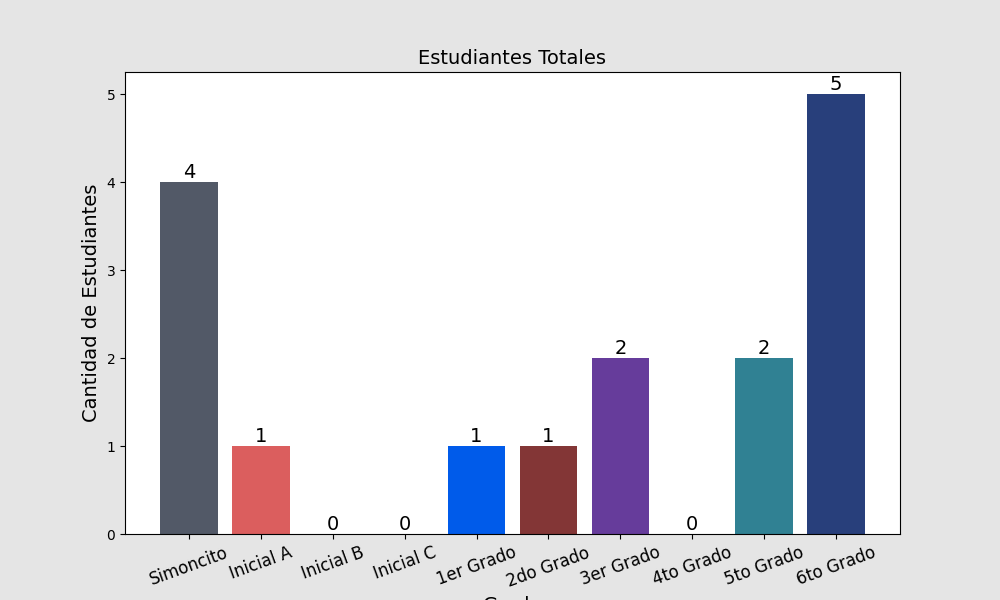
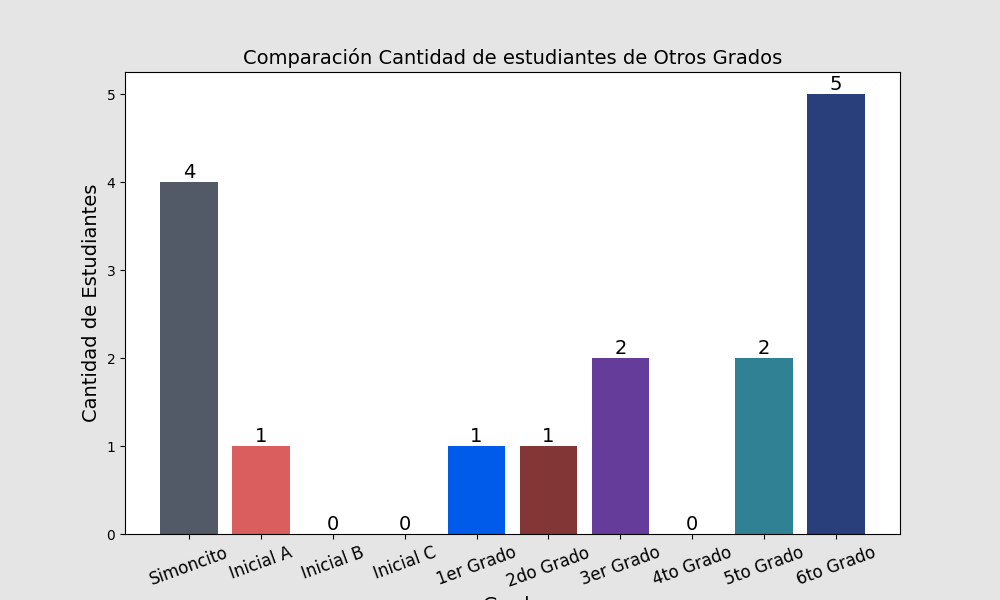
cambios

Changed region(s): [[0.248, 0.06, 0.775, 0.12]]

diff --git a/modulos/secciones_modulares_docente/inicio_docente/crear_estadistica_general_docente.py b/modulos/secciones_modulares_docente/inicio_docente/crear_estadistica_general_docente.py
@@ -8,18 +8,21 @@ def crear_estadistica_general(lista_datos):
     colores = [var.btn_gray, var.btn_pink, var.btn_beige, var.btn_gold, var.btn_blue, var.btn_red_black, var.btn_purple, var.btn_green, var.btn_lila, var.btn_blueosc]
 
     # Crear una figura y un eje
-    fig, ax = plt.subplots()
+    # fig, ax = plt.subplots()
+    fig, ax = plt.subplots(figsize=(10, 6))  # Ancho: 10 pulgadas, Alto: 6 pulgadas
     ax.bar(nombres_datos, lista_datos, color=colores)
-    ax.set_xlabel('Grado')
-    ax.set_ylabel('Cantidad de Estudiantes')
-    ax.set_title('Número de Estudiantes por Grado')
+    ax.set_xlabel('Grado',fontsize=14)
+    ax.set_ylabel('Cantidad de Estudiantes',fontsize=14)
+    ax.set_title('Comparación Cantidad de estudiantes de Otros Grados',fontsize=14)
 
     # Rotar las etiquetas en el eje x para mayor legibilidad
-    plt.xticks(rotation=20)
+    plt.xticks(rotation=20, fontsize=12)
 
     # Agregar etiquetas a las barras
     for i, valor in enumerate(lista_datos):
-        ax.text(i, valor, str(valor), ha='center', va='bottom')
+        ax.text(i, valor, str(valor), ha='center', va='bottom', fontsize=14)
+    # Agregar color de fondo a la figura
+    fig.set_facecolor('#E5E5E5')  # Cambia el color según tus preferencias
 
     # Guardar la figura como una imagen
     fig.savefig('matricula_pdf_img/img_estadistica_general/estadistica_general.png')

diff --git a/modulos/secciones_modulares_docente/inicio_docente/inicio_docente.py b/modulos/secciones_modulares_docente/inicio_docente/inicio_docente.py
@@ -1,7 +1,7 @@
 import customtkinter as ctk
 import sqlite3
 from modulos.variables import variables as var
-from modulos.secciones_modulares.inicio.crear_estadistica_general import crear_estadistica_general
+from modulos.secciones_modulares_docente.inicio_docente.crear_estadistica_general_docente import crear_estadistica_general
 from PIL import ImageTk, Image
 
 class InicioDocenteVentana:
